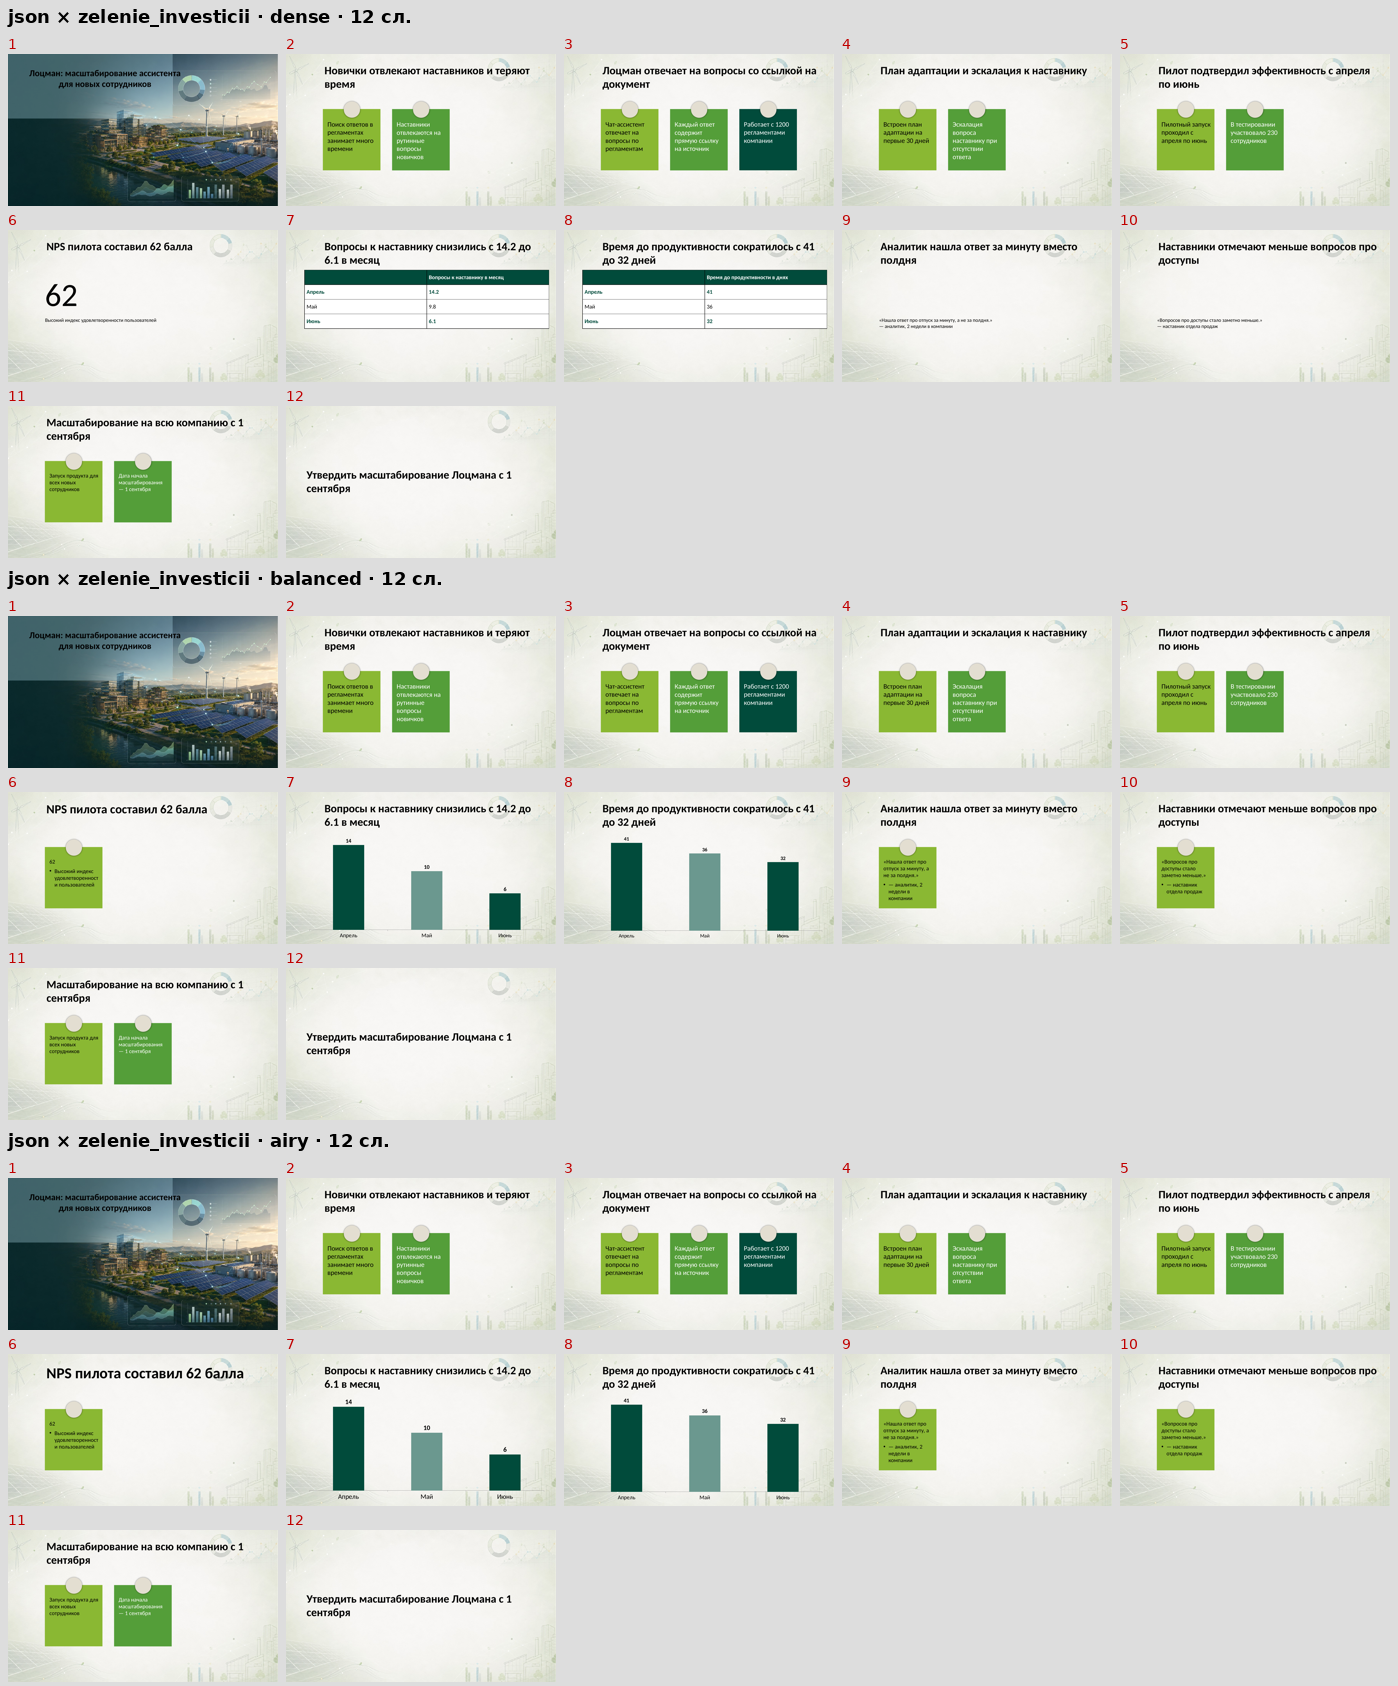
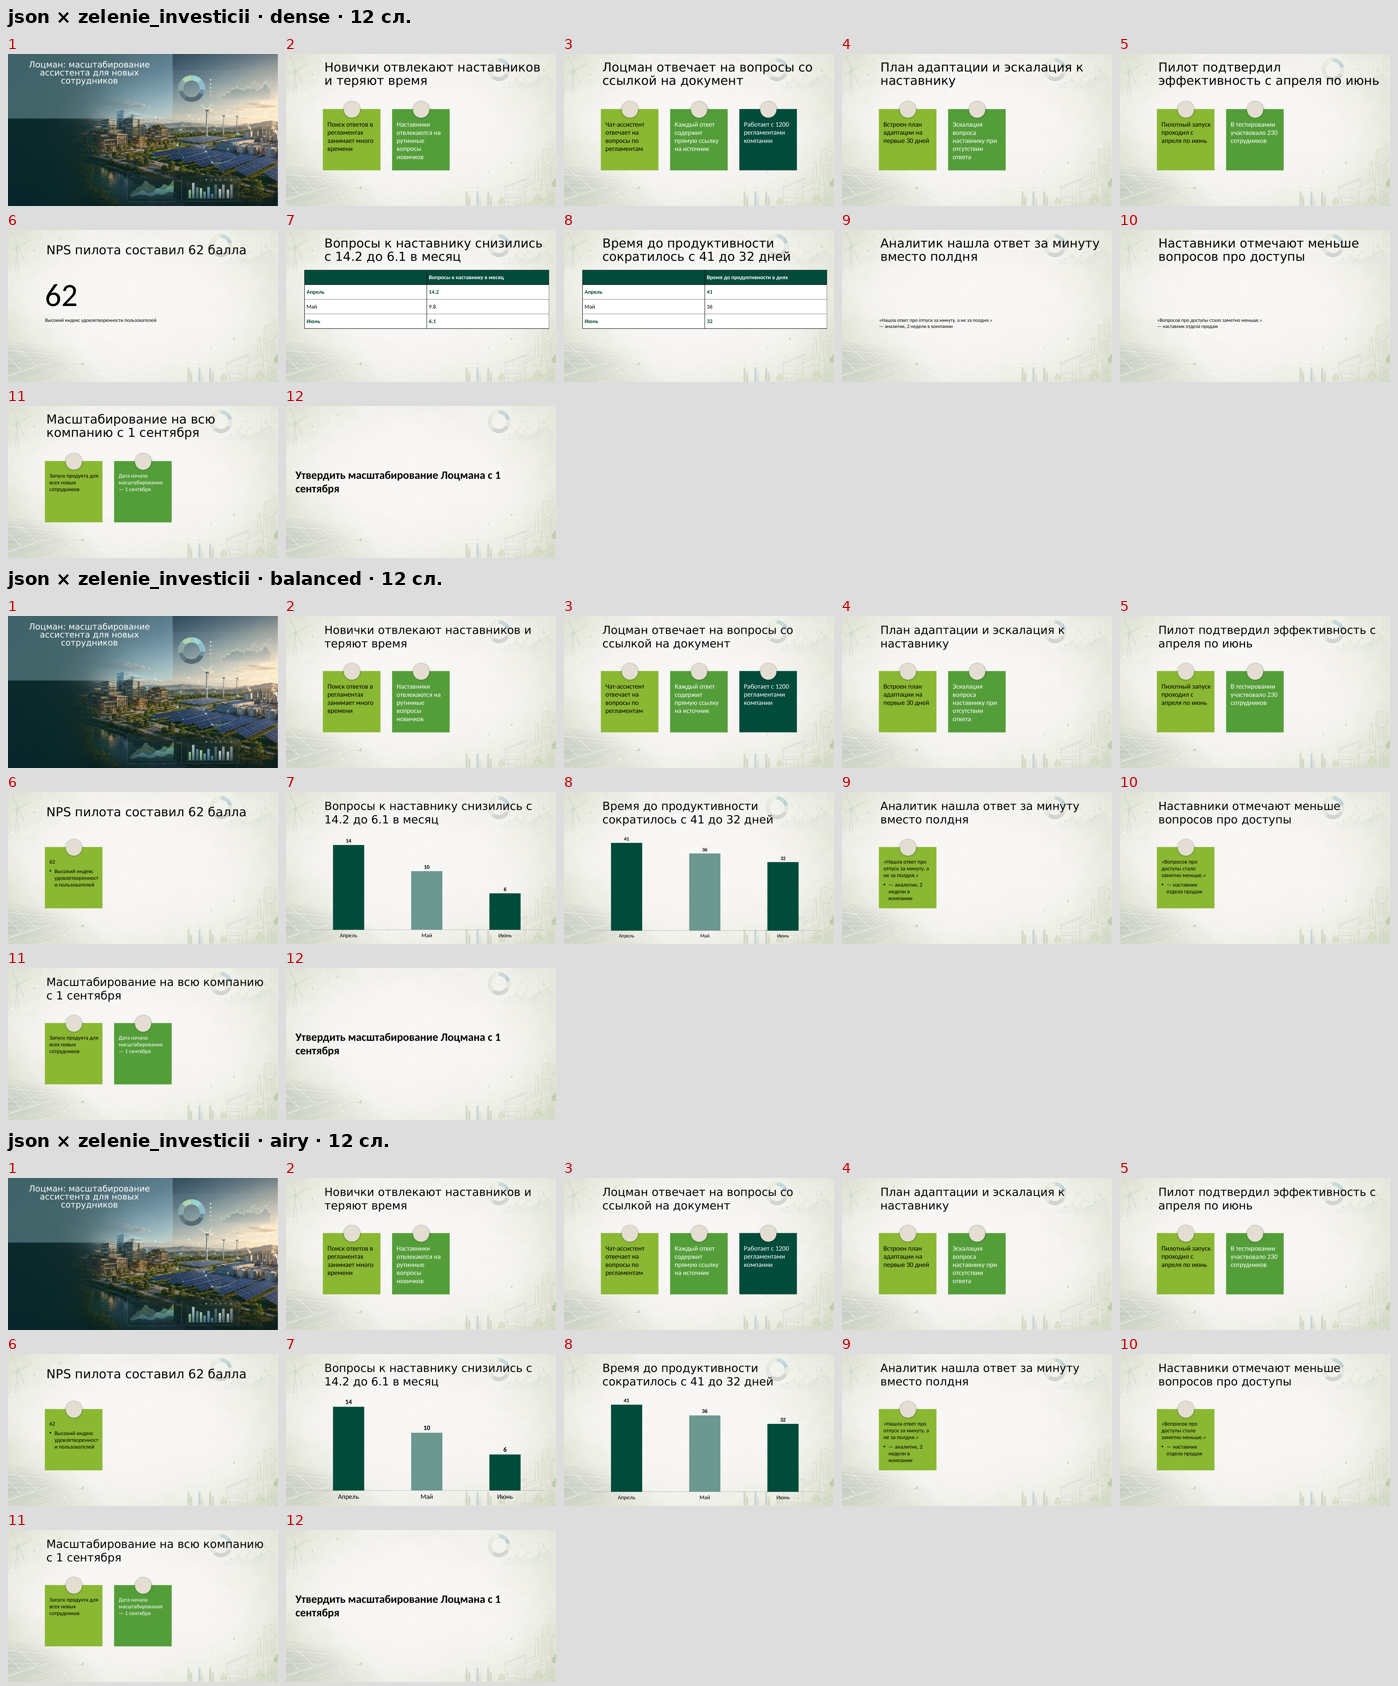
Дубль плейсхолдера заголовка; ложные находки аудита на docx × zelenie
Прогон brief × vk_tech (181 с, 0 ошибок) и docx × zelenie (443 с).

* Донор несёт свой плейсхолдер заголовка, add_slide создаёт пустой из
  макета в той же рамке: текст ложился в пустой, клон показывал «Вставьте
  заголовок». Прятала это ложная правка полей. Пустой дубль удаляется.
* Процитированное число сверяется и с числами текста факта («освоено 31
  млн» при value 48).
* Титулу и разделителю не задаётся вопрос «есть ли содержание».
* probe_harvest: строка echo из текста скрипта — не пара.

Claude-Session: https://claude.ai/code/session_017UKkxRZ9UHDLfMDNerFFEn

diff --git a/tests/test_audit.py b/tests/test_audit.py
@@ -1026,3 +1026,34 @@ def test_shared_text_pass_asks_the_model_once_for_parallel_variants():
 
     assert len(calls) == 1
     assert sorted(reused for _, _, reused in answers) == [False, True, True]
+
+
+def test_title_slide_is_not_asked_whether_it_has_content(clean):
+    """Титул по замыслу — один заголовок: вопрос о содержании для него ложный."""
+    from deckwright.audit.contextual.runner import _BARE_INTENTS, _image_pass
+    from deckwright.schemas import SlideIntent
+
+    cfg = load_config(CONFIG)
+    image_ids = cfg.audit.checks_by_mode("image")
+    if "content.has_content" not in image_ids:
+        pytest.skip("вопрос о содержании задаётся не по картинке")
+    intents = {slide.index: slide.intent for slide in clean.plan.slides}
+    if SlideIntent.TITLE not in intents.values():
+        pytest.skip("в записанном плане нет титула")
+
+    prompts: dict[int, str] = {}
+
+    class RecordingVlm:
+        def complete(self, step, prompt, schema, images=None):
+            index = next(
+                i for i, intent in intents.items()
+                if clean.plan.slides[i - 1].takeaway_title in prompt
+            )
+            prompts[index] = prompt
+            return schema.model_validate({"answers": []})
+
+    _image_pass(clean.deck, clean.plan, clean.pages, RecordingVlm(), image_ids, 1, None, None)
+
+    for index, prompt in prompts.items():
+        asked = "content.has_content" in prompt
+        assert asked == (intents[index] not in _BARE_INTENTS), index

diff --git a/src/deckwright/render/pptx_writer.py b/src/deckwright/render/pptx_writer.py
@@ -801,13 +801,29 @@ def _clone_composition(slide, donor: tuple[object, list], width: int, height: in
     пересказывается.
     """
     donor_part, donor_shapes = donor
+    # `add_slide` уже создал пустые плейсхолдеры макета. Если донор несёт
+    # свой плейсхолдер того же типа и номера, пустой — дубль в той же рамке:
+    # текст ложился в него шрифтом макета, а клон донора оставался с
+    # подсказкой «Вставьте заголовок» (`zelenie_investicii`, каждый слайд).
+    blank = {_ph_key(shape._element): shape._element for shape in slide.placeholders}
     for element in donor_shapes:
         tag = etree.QName(element).localname
         if tag in ("nvGrpSpPr", "grpSpPr"):
             continue
         if _off_canvas(element, width, height):
             continue
+        duplicate = blank.pop(_ph_key(element), None)
+        if duplicate is not None:
+            duplicate.getparent().remove(duplicate)
         clone_shape(element, donor_part, slide)
+
+
+def _ph_key(element) -> tuple[str, str] | None:
+    """Тип и номер плейсхолдера фигуры; `None`, если это не плейсхолдер."""
+    ph = element.xpath("./*/*[local-name()='nvPr']/*[local-name()='ph']")
+    if not ph:
+        return None
+    return ph[0].get("type", "body"), ph[0].get("idx", "0")
 
 
 def count_native_shapes(path: str | Path) -> list[int]:

diff --git a/src/deckwright/audit/contextual/runner.py b/src/deckwright/audit/contextual/runner.py
@@ -38,6 +38,7 @@ from deckwright.schemas import (
     FixKind,
     Issue,
     ProposedFix,
+    SlideIntent,
     SlideIR,
 )
 
@@ -93,6 +94,9 @@ class SharedTextPass:
             self._value = compute()
             self._done = True
             return (*self._value, False)
+
+
+_BARE_INTENTS = (SlideIntent.TITLE, SlideIntent.SECTION)
 
 
 def _questions(check_ids: list[str]) -> str:
@@ -157,6 +161,10 @@ def _image_pass(
 ) -> tuple[list[Issue], list[str]]:
     prompt = load_prompt("audit_slide.v1", prompts_dir)
     questions = _questions(check_ids)
+    # Титул и разделитель по замыслу состоят из заголовка: вопрос «есть ли
+    # на слайде содержание» для них ложный. Живой прогон 4×4: модель
+    # отвечала «нет» на титуле в половине колод.
+    bare_questions = _questions([cid for cid in check_ids if cid != "content.has_content"])
     by_index = {slide.index: slide for slide in plan.slides}
 
     def ask(slide: SlideIR) -> tuple[list[Issue], str]:
@@ -168,7 +176,11 @@ def _image_pass(
             title=planned.takeaway_title if planned else "",
             intent=planned.intent.value if planned else "",
             body=_slide_body(slide),
-            questions=questions,
+            questions=(
+                bare_questions
+                if planned and planned.intent in _BARE_INTENTS
+                else questions
+            ),
         )
         try:
             answers = client.complete(

diff --git a/tests/test_e2e_smoke.py b/tests/test_e2e_smoke.py
@@ -264,3 +264,29 @@ def test_parallel_variants_match_sequential_ones(template_paths, pack, recorded_
         parallel = [result.deck for result in pool.map(complete_variant, laid_out)]
 
     assert parallel == sequential
+
+
+def test_donor_placeholder_is_not_duplicated_by_the_layout(pack, recorded_dir, tmp_path):
+    """Плейсхолдер донора заменяет пустой плейсхолдер макета, а не стоит рядом.
+
+    На `zelenie_investicii` у каждого слайда было два заголовка в одной рамке:
+    текст ложился в пустой из макета, а клон донора показывал «Вставьте
+    заголовок».
+    """
+    from collections import Counter
+    from pathlib import Path
+
+    from pptx import Presentation
+
+    from deckwright.render.pptx_writer import _ph_key
+
+    path = Path(__file__).parents[1] / "data" / "holdout" / "zelenie_investicii.pptx"
+    if not path.exists():
+        pytest.skip("нет шаблона holdout")
+    result = run_variant(
+        template_path=path, pack=pack, cfg=load_config(CONFIG),
+        client=RecordedClient(recorded_dir), variant="dense", output_dir=tmp_path,
+    )
+    for index, slide in enumerate(Presentation(str(result.pptx)).slides, start=1):
+        keys = Counter(_ph_key(shape._element) for shape in slide.placeholders)
+        assert all(count == 1 for count in keys.values()), (index, keys)

diff --git a/tests/test_planning.py b/tests/test_planning.py
@@ -288,3 +288,19 @@ def test_cited_figure_sign_is_direction_not_value(pack):
     fact = pack.facts[0]
     figure = Figure(text=f"-{fact.value:g}", kind=FigureKind.CITED, fact_ids=[fact.id])
     assert verify(figure, pack) is None
+
+
+def test_cited_figure_may_be_any_number_of_the_fact_text(pack):
+    """«Бюджет 48 млн, освоено 31 млн»: value 48, но «31» — тоже цитата факта."""
+    from deckwright.schemas import ContentPack
+
+    two = ContentPack.model_validate(
+        {
+            **pack.model_dump(),
+            "facts": [{"id": "f1", "text": "Бюджет 48 млн рублей, освоено 31 млн",
+                       "source_doc_id": pack.facts[0].source_doc_id, "value": 48}],
+        }
+    )
+    assert verify(Figure(text="31 млн", kind=FigureKind.CITED, fact_ids=["f1"]), two) is None
+    problem = verify(Figure(text="35 млн", kind=FigureKind.CITED, fact_ids=["f1"]), two)
+    assert problem and "таких значений нет" in problem

diff --git a/src/deckwright/plan/figures.py b/src/deckwright/plan/figures.py
@@ -117,11 +117,16 @@ def verify(figure: Figure, pack: ContentPack) -> str | None:
         return f"число {figure.text!r} ссылается на отсутствующие факты: {', '.join(missing)}"
 
     if figure.kind is FigureKind.CITED:
+        # У факта одно поле `value`, а чисел в нём бывает больше: «бюджет 48
+        # млн, освоено 31 млн» — value 48, и «31» тоже цитата. Числа текста
+        # факта — такие же значения, как `value`.
         cited = [
             value
             for fact_id in figure.fact_ids
             for value in (
-                series[fact_id] if fact_id in series else [facts[fact_id].value]
+                series[fact_id]
+                if fact_id in series
+                else [facts[fact_id].value, *sorted(numbers_in(facts[fact_id].text))]
             )
             if value is not None
         ]

diff --git a/scripts/probe_harvest.py b/scripts/probe_harvest.py
@@ -27,7 +27,7 @@ import sys
 from pathlib import Path
 
 _STAMP = re.compile(r"^\d{4}-\d\d-\d\dT[\d:.]+Z ")
-_RUN = re.compile(r"===== ПРОГОН (\S+) × (\S+) =====")
+_RUN = re.compile(r"===== ПРОГОН ([^\s$]+) × ([^\s$]+) =====")
 _BEGIN = re.compile(r"----- НАЧАЛО (\S+) -----")
 _END = re.compile(r"----- КОНЕЦ (\S+) -----")
 
